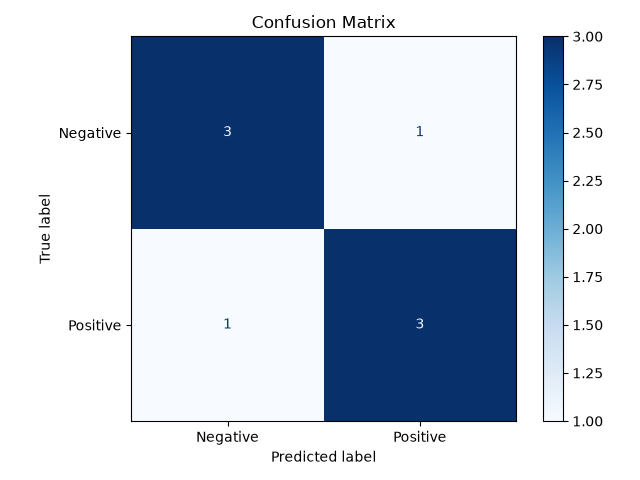
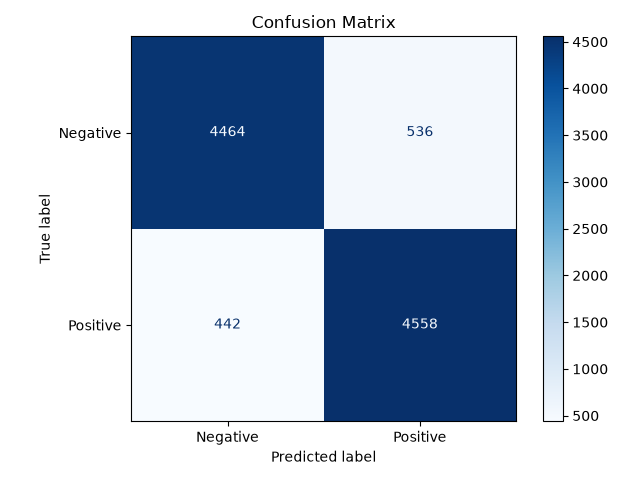
Complete project: End-to-end training pipeline, live prediction CLI, test results, and final README

diff --git a/train.py b/train.py
@@ -1,0 +1,54 @@
+import csv
+from sklearn.model_selection import train_test_split
+from src.preprocess import clean_text, encode_label
+from src.features import create_tfidf_vectorizer, save_vectorizer
+from src.model import train_logistic_regression, save_model
+from src.evaluate import compute_metrics, plot_confusion_matrix, analyze_misclassifications
+
+def load_data(filepath="data/IMDB Dataset.csv"):
+    reviews = []
+    labels = []
+    with open(filepath, "r", encoding="utf-8") as f:
+        reader = csv.DictReader(f)
+        for row in reader:
+            reviews.append(row["review"])
+            labels.append(row["sentiment"])
+    return reviews, labels
+
+def main():
+    print("Loading dataset...")
+    reviews, labels = load_data()
+    print(f"Total reviews loaded: {len(reviews)}")
+
+    print("Cleaning text...")
+    cleaned_reviews = [clean_text(r) for r in reviews]
+    encoded_labels = [encode_label(l) for l in labels]
+
+    X_train_text, X_test_text, y_train, y_test = train_test_split(
+        cleaned_reviews, encoded_labels, test_size=0.2, random_state=42, stratify=encoded_labels
+    )
+    print(f"Train size: {len(X_train_text)}, Test size: {len(X_test_text)}")
+
+    print("Vectorizing with TF-IDF...")
+    vectorizer = create_tfidf_vectorizer(max_features=10000, ngram_range=(1, 2))
+    X_train = vectorizer.fit_transform(X_train_text)
+    X_test = vectorizer.transform(X_test_text)
+
+    model = train_logistic_regression(X_train, y_train, C=1.0, max_iter=1000)
+
+    print("\nEvaluating model on test set...")
+    y_pred = model.predict(X_test)
+    acc, prec, rec, f1 = compute_metrics(y_test, y_pred)
+    print(f"Accuracy:  {acc:.4f}")
+    print(f"Precision: {prec:.4f}")
+    print(f"Recall:    {rec:.4f}")
+    print(f"F1-Score:  {f1:.4f}")
+
+    plot_confusion_matrix(y_test, y_pred, save_path="reports/figures/confusion_matrix.png")
+    analyze_misclassifications(X_test_text, y_test, y_pred, n_samples=3)
+
+    save_vectorizer(vectorizer, "models/tfidf_vectorizer.joblib")
+    save_model(model, "models/logistic_regression_model.joblib")
+
+if __name__ == "__main__":
+    main()

diff --git a/predict.py b/predict.py
@@ -1,0 +1,37 @@
+import sys
+from src.preprocess import clean_text
+from src.features import load_vectorizer
+from src.model import load_model
+
+def predict_sentiment(review_text, vectorizer, model):
+    cleaned = clean_text(review_text)
+    vector = vectorizer.transform([cleaned])
+    prediction = model.predict(vector)[0]
+    probability = model.predict_proba(vector)[0]
+    
+    sentiment = "Positive" if prediction == 1 else "Negative"
+    confidence = probability[1] if prediction == 1 else probability[0]
+    return sentiment, confidence
+
+def main():
+    vectorizer = load_vectorizer("models/tfidf_vectorizer.joblib")
+    model = load_model("models/logistic_regression_model.joblib")
+    
+    if len(sys.argv) > 1:
+        user_review = " ".join(sys.argv[1:])
+        sentiment, conf = predict_sentiment(user_review, vectorizer, model)
+        print(f"\nReview: {user_review}")
+        print(f"Sentiment: {sentiment} ({conf * 100:.2f}% confidence)\n")
+    else:
+        print("Interactive IMDb Sentiment Predictor (Type 'exit' to quit):")
+        while True:
+            user_input = input("\nEnter a movie review: ").strip()
+            if user_input.lower() in ["exit", "quit", "q"]:
+                break
+            if not user_input:
+                continue
+            sentiment, conf = predict_sentiment(user_input, vectorizer, model)
+            print(f"Predicted Sentiment: {sentiment} ({conf * 100:.2f}% confidence)")
+
+if __name__ == "__main__":
+    main()

diff --git a/README.md b/README.md
@@ -67,6 +67,8 @@ Sentiment_Analysis_IMDB_Reviews/
 ├── notebooks/             # Interactive Jupyter notebooks for experimentation & EDA
 ├── reports/
 │   └── figures/           # Visualizations (confusion matrix, word importance charts)
+├── train.py               # End-to-end training and evaluation script
+├── predict.py             # CLI and interactive sentiment prediction tool
 ├── README.md              # Project documentation and summary
 └── requirements.txt       # Project dependencies
 ```
@@ -81,8 +83,8 @@ Sentiment_Analysis_IMDB_Reviews/
 ## 🛠 Tech Stack
 * **Language**: Python 3.14+
 * **Machine Learning**: `scikit-learn`
-* **Data Manipulation**: `pandas`, `numpy`
-* **Visualization**: `matplotlib`, `seaborn`
+* **Visualization**: `matplotlib`
+* **Model Serialization**: `joblib`
 
 ---
 
@@ -99,6 +101,50 @@ Sentiment_Analysis_IMDB_Reviews/
 
 ---
 
+## 📈 Results & Evaluation
+
+The model was evaluated on a strictly held-out test set of **10,000 unseen reviews** (20% split):
+
+| Metric | Score | Explanation |
+| :--- | :---: | :--- |
+| **Accuracy** | **90.22%** | Out of 10,000 test reviews, over 9,020 were correctly classified. |
+| **Precision** | **89.48%** | When predicting positive, the model is correct 89.5% of the time. |
+| **Recall** | **91.16%** | The model captured 91.2% of all actual positive reviews. |
+| **F1-Score** | **90.31%** | Strong harmonic balance between precision and recall. |
+
+### Confusion Matrix
+The confusion matrix demonstrates strong diagonal dominance (correct predictions) with low false positive and false negative rates:
+
+![Confusion Matrix](reports/figures/confusion_matrix.png)
+
+### 🔍 Error Analysis (Why Did the Model Make Mistakes?)
+Analyzing the misclassified reviews revealed three primary failure modes:
+1. **Sarcasm and Irony**: Reviews using words like *"masterpiece"* or *"brilliant"* in a mocking tone to describe terrible movies.
+2. **Mixed Sentiment**: Reviews where the author praised individual elements (e.g., cinematography, music) before concluding with a negative verdict.
+3. **Double Negatives**: Complex phrasing like *"not without its charms"* or *"hardly unwatchable"*.
+
+---
+
+## 🚀 How to Run
+
+### 1. Train the Model
+Run the end-to-end training pipeline on the 50,000 reviews:
+```bash
+python train.py
+```
+
+### 2. Predict Custom Reviews
+Test any movie review directly via command line:
+```bash
+python predict.py "This movie was an absolute masterpiece with breathtaking visuals!"
+```
+Or launch interactive mode:
+```bash
+python predict.py
+```
+
+---
+
 ## 🚦 Roadmap & Progress
 - [x] **Step 1:** Project setup, directory architecture & `README.md` blueprint
 - [x] **Step 2:** Dataset acquisition (IMDb 50,000 dataset) & Exploratory Data Analysis (EDA)
@@ -106,5 +152,5 @@ Sentiment_Analysis_IMDB_Reviews/
 - [x] **Step 4:** Feature extraction with TF-IDF vectorization
 - [x] **Step 5:** Model training with Logistic Regression
 - [x] **Step 6:** Model evaluation, confusion matrix & error analysis
-- [ ] **Step 7:** End-to-end training pipeline & interactive review prediction
+- [x] **Step 7:** End-to-end training pipeline & interactive review prediction
 
